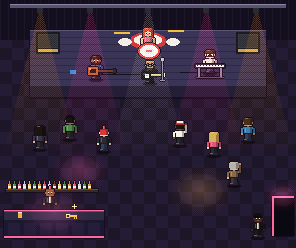
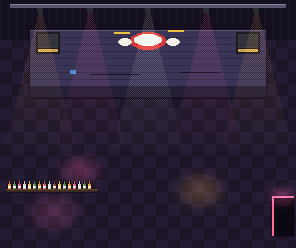
Fix the bedroom doorway, animate NPCs, and liven up the town
- Move the bedroom doorway off the couch so the bedroom is reachable
- Cups on the floor to pick up, and a guitar that sends you into a flow
  state when you're buzzed, then wakes you in bed
- NPCs breathe, the crowd dances and the band plays along with depth
  sorting against the bars, tables and instruments
- Taller town map with sidewalks, a grimy sidewalk by the bar, a neon
  BAR sign, a LIVE MUSIC marquee and posters, a parking lot by the
  club, and a broken-heart cloud over her house

Claude-Session: https://claude.ai/code/session_014gLzSEVs7rdWDnf6n7tjPU

diff --git a/index.html b/index.html
@@ -297,10 +297,11 @@ const cv = document.getElementById('cv'), ctx = cv.getContext('2d');
 ctx.imageSmoothingEnabled = false;
 const $ = id => document.getElementById(id);
 const IMG = {};
-['map', 'home', 'tavern', 'club', 'club_nokey', 'exhouse', 'exhouse_off', 'title'].forEach(n => { const i = new Image(); i.src = 'img/' + n + '.png'; IMG[n] = i; });
+const ATLAS = {"tavern":{"npcs":[{"name":"bartender","x":128,"y":82,"kind":"bar","f":[0]},{"name":"regular","x":34,"y":200,"kind":"sit","f":[1]},{"name":"patron2","x":60,"y":226,"kind":"sit","f":[2]},{"name":"cowboy","x":238,"y":200,"kind":"sit","f":[3]}],"fg":[{"name":"bar","sy":116,"f":4},{"name":"table1","sy":222,"f":5},{"name":"table2","sy":222,"f":6}]},"club":{"npcs":[{"name":"drummer","x":148,"y":52,"kind":"drums","f":[7,8]},{"name":"eli","x":150,"y":84,"kind":"singer","f":[9,10]},{"name":"bassist","x":96,"y":80,"kind":"band","f":[11]},{"name":"keys","x":210,"y":74,"kind":"band","f":[12]},{"name":"crowd0","x":40,"y":150,"kind":"crowd","f":[13,14]},{"name":"crowd1","x":70,"y":140,"kind":"crowd","f":[15,16]},{"name":"crowd2","x":104,"y":152,"kind":"crowd","f":[17,18]},{"name":"crowd3","x":180,"y":146,"kind":"crowd","f":[19,20]},{"name":"crowd4","x":214,"y":156,"kind":"crowd","f":[21,22]},{"name":"crowd5","x":248,"y":142,"kind":"crowd","f":[23,24]},{"name":"crowd6","x":234,"y":186,"kind":"crowd","f":[25,26]},{"name":"clubbartender","x":50,"y":212,"kind":"bar","f":[27]},{"name":"bouncer","x":258,"y":238,"kind":"idle","f":[28]}],"fg":[{"name":"kick","sy":59,"f":29},{"name":"keyboard","sy":78,"f":30},{"name":"mic","sy":90,"f":31},{"name":"cbar","sy":238,"f":32},{"name":"key","sy":239,"f":33}]},"map":{"npcs":[{"name":"queue1","x":198,"y":248,"kind":"idle","f":[34]},{"name":"queue2","x":188,"y":246,"kind":"idle","f":[35]}],"fg":[]},"rects":[[418,0,16,25,120,57],[435,0,16,25,26,175],[350,0,16,26,52,200],[282,0,16,27,230,173],[0,0,178,34,57,83],[260,35,32,24,21,199],[293,35,32,24,225,199],[452,0,16,25,140,27],[469,0,16,25,140,27],[326,35,25,24,141,60],[352,35,25,24,141,60],[0,35,30,25,87,55],[31,35,16,25,202,49],[48,35,16,25,32,125],[65,35,16,25,32,125],[82,35,16,25,62,115],[99,35,16,25,62,115],[299,0,16,27,96,125],[316,0,16,27,96,125],[367,0,16,26,172,120],[384,0,16,26,172,120],[116,35,16,25,206,131],[133,35,16,25,206,131],[150,35,16,25,240,117],[167,35,16,25,240,117],[184,35,16,25,226,161],[201,35,16,25,226,161],[333,0,16,27,42,185],[218,35,16,25,250,213],[378,35,24,18,137,42],[403,35,32,16,194,63],[235,35,7,25,159,57],[179,0,102,30,3,209],[436,35,15,12,65,208],[243,35,16,25,190,223],[401,0,16,26,180,220]]};
+['map', 'home', 'tavern', 'club', 'exhouse', 'exhouse_off', 'title', 'atlas'].forEach(n => { const i = new Image(); i.src = 'img/' + n + '.png'; IMG[n] = i; });
 
 const st = { mode: 'title', scene: 'home', x: 100, y: 182, dir: 'down', step: 0, stepT: 0, courage: 0, buzz: 0, key: false,
-  watched: false, porchOff: false, knocks: 0, played: 0, drinks: 0, t: 0, look: null, drive: null, curb: null, near: null, lock: false };
+  watched: false, porchOff: false, knocks: 0, played: 0, drinks: 0, cups: {}, cupN: 0, t: 0, look: null, drive: null, curb: null, near: null, lock: false };
 
 // ===== sprite =====
 function rgb(h) { return [1, 3, 5].map(i => parseInt(h.substr(i, 2), 16)); }
@@ -382,16 +383,18 @@ function carCanvas(col) {
 // ===== scenes =====
 const tree = (x, y) => [x + 4, y + 12, 14, 10];
 const SC = {
-  map: { img: 'map', name: 'TOWN', walk: [[0, 0, 296, 248]],
+  map: { img: 'map', name: 'TOWN', walk: [[0, 0, 296, 360]],
     block: [[12, 10, 94, 74], [160, 12, 76, 68], [16, 150, 84, 72], [170, 150, 102, 78], [106, 174, 20, 32],
-      tree(262, 10), tree(270, 60), tree(112, 8), tree(110, 190), tree(6, 96), tree(152, 186),
-      [124, 108, 6, 4], [226, 108, 6, 4], [124, 156, 6, 4], [159, 233, 14, 6], [149, 231, 14, 6]],
+      ...[[274, 14], [274, 70], [112, 8], [6, 96], [6, 290], [90, 300], [40, 330]].map(p => tree(p[0], p[1])),
+      ...[[120, 90], [240, 90], [120, 142], [120, 250], [284, 300]].map(p => [p[0] + 1, p[1] + 14, 4, 6]),
+      ...[[174, 256], [222, 258], [246, 320], [198, 322]].map(p => [p[0] + 1, p[1] + 3, 20, 32]),
+      [72, 98, 12, 8], [30, 238, 8, 6], [56, 266, 24, 7], [167, 304, 4, 6], [192, 243, 12, 6], [182, 241, 12, 6]],
     doors: [{ r: [50, 84, 18, 8], to: 'tavern' }, { r: [188, 80, 20, 8], to: 'exhouse' }, { r: [46, 222, 20, 8], to: 'home' }, { r: [206, 228, 30, 8], to: 'club' }],
     acts: [{ r: [98, 166, 36, 48], l: 'DRIVE', f: () => askDrive() }] },
   home: { img: 'home', name: 'HOME',
-    walk: [[4, 20, 146, 94], [154, 20, 138, 94], [4, 134, 176, 110], [184, 134, 108, 110], [60, 108, 18, 30], [146, 70, 12, 18], [176, 190, 12, 22], [58, 240, 26, 8]],
+    walk: [[4, 20, 146, 94], [154, 20, 138, 94], [4, 134, 176, 110], [184, 134, 108, 110], [88, 106, 16, 32], [146, 70, 12, 18], [176, 190, 12, 22], [58, 240, 26, 8]],
     block: [[12, 24, 48, 58], [64, 22, 14, 21], [160, 24, 28, 61], [210, 22, 20, 22], [256, 20, 16, 26], [14, 136, 72, 32], [26, 186, 48, 17],
-      [100, 128, 34, 26], [188, 128, 76, 36], [266, 120, 22, 36], [218, 186, 30, 23], [196, 216, 20, 16]],
+      [110, 128, 34, 26], [155, 206, 14, 6], [188, 128, 76, 36], [266, 120, 22, 36], [218, 186, 30, 23], [196, 216, 20, 16]],
     exit: { r: [58, 244, 26, 4], to: 'map' },
     acts: [
       { r: [12, 166, 76, 14], l: 'COUCH', f: () => couch() },
@@ -399,8 +402,9 @@ const SC = {
       { r: [262, 154, 30, 10], l: 'FRIDGE', f: () => say(['A lemon, some mustard, and a fridge magnet shaped like a guitar.']) },
       { r: [204, 42, 32, 10], l: 'MIRROR', f: () => mirror() },
       { r: [10, 80, 54, 12], l: 'BED', f: () => bed() },
-      { r: [132, 134, 36, 10], l: 'CLOSET', f: () => closet() },
-      { r: [98, 152, 40, 10], l: 'TV', f: () => say(['Static. Same as your head.']) }] },
+      { r: [144, 134, 32, 10], l: 'CLOSET', f: () => closet() },
+      { r: [148, 210, 30, 16], l: 'GUITAR', f: () => guitar() },
+      { r: [108, 152, 40, 10], l: 'TV', f: () => say(['Static. Same as your head.']) }] },
   tavern: { img: 'tavern', name: 'TAVERN', walk: [[0, 56, 296, 192]],
     block: [[58, 54, 176, 62], [74, 130, 12, 8], [104, 130, 12, 8], [164, 130, 12, 8], [194, 130, 12, 8], [250, 66, 30, 44], [20, 192, 34, 30], [224, 192, 34, 30], [52, 220, 16, 8]],
     exit: { r: [126, 244, 44, 4], to: 'map' },
@@ -426,6 +430,17 @@ const SC = {
 const SPAWN = { tavern: [148, 236], club: [262, 214], exhouse: [150, 236], home: [70, 236] };
 const MAPSPAWN = { tavern: [59, 98], exhouse: [198, 94], home: [56, 238], club: [221, 245] };
 
+const CUPS = { home: [[100, 214], [118, 198], [142, 232], [110, 98]] };
+const CUP_MSG = ['This is empty. Like your soul. Check the kitchen.', 'This cup is about as substantive as your purpose.'];
+function cupActs() {
+  return (CUPS[st.scene] || []).map((c, i) => (st.cups && st.cups[st.scene + i]) ? null :
+    { r: [c[0] - 11, c[1] - 8, 22, 20], l: 'CUP', f: () => { st.cups[st.scene + i] = true; sfx('click'); say([CUP_MSG[st.cupN++ % 2]]); } }).filter(Boolean);
+}
+function drawCup(x, y) {
+  ctx.fillStyle = OUT; ctx.fillRect(x - 4, y - 4, 9, 6);
+  ctx.fillStyle = '#d63a3a'; ctx.fillRect(x - 3, y - 3, 6, 4); ctx.fillStyle = '#f06a6a'; ctx.fillRect(x - 3, y - 3, 6, 1);
+  ctx.fillStyle = '#f4f0e6'; ctx.fillRect(x + 3, y - 3, 1, 4); ctx.fillStyle = '#7a1e1e'; ctx.fillRect(x - 3, y, 6, 1);
+}
 function inR(x, y, r) { return x >= r[0] && x < r[0] + r[2] && y >= r[1] && y < r[1] + r[3]; }
 function free(x, y) {
   const s = SC[st.scene], pts = [[x - 4, y - 3], [x + 4, y - 3], [x - 4, y], [x + 4, y]];
@@ -686,12 +701,99 @@ function drawCurb() {
   ctx.fillText("YOU DON'T REMEMBER GETTING HERE.", 50, 11);
 }
 
+// ===== NPC animation, signs, flow state =====
+function piece(i, dx, dy) { const r = ATLAS.rects[i]; ctx.drawImage(IMG.atlas, r[0], r[1], r[2], r[3], r[4] + dx, r[5] + dy, r[2], r[3]); }
+const BEAT = 60 / 112;
+function npcAnim(n, i) {
+  const t = st.t, ph = i * .37 + n.x * .013, f = n.f, alt = f[f.length - 1];
+  switch (n.kind) {
+    case 'singer': { const b = Math.floor(t / BEAT); return [b % 4 === 3 ? alt : f[0], Math.round(Math.sin(t * 1.7) * 2), (t / BEAT) % 1 < .5 ? -1 : 0]; }
+    case 'drums': { const b = Math.floor(t / (BEAT / 2)); return [b % 2 ? alt : f[0], 0, b % 2 ? -1 : 0]; }
+    case 'band': return [f[0], Math.round(Math.sin(t * 2.2 + ph) * 1.4), (t / BEAT + ph) % 1 < .5 ? -1 : 0];
+    case 'crowd': { const b = Math.floor(t / BEAT + ph * 3); return [b % 2 ? alt : f[0], 0, b % 2 ? -1 : 0]; }
+    case 'bar': return [f[0], Math.round(Math.sin(t * .8 + ph) * 2), Math.sin(t * 2 + ph) > .7 ? -1 : 0];
+    case 'sit': return [f[0], 0, Math.sin(t * 1.6 + ph) > .5 ? -1 : 0];
+    default: return [f[0], 0, Math.sin(t * 1.9 + ph) > .4 ? -1 : 0];
+  }
+}
+const GLYPH = { B: ['XX.', 'X.X', 'XX.', 'X.X', 'XX.'], A: ['.X.', 'X.X', 'XXX', 'X.X', 'X.X'], R: ['XX.', 'X.X', 'XX.', 'X.X', 'X.X'], L: ['X..', 'X..', 'X..', 'X..', 'XXX'],
+  I: ['XXX', '.X.', '.X.', '.X.', 'XXX'], V: ['X.X', 'X.X', 'X.X', 'X.X', '.X.'], E: ['XXX', 'X..', 'XX.', 'X..', 'XXX'], M: ['X.X', 'XXX', 'XXX', 'X.X', 'X.X'],
+  U: ['X.X', 'X.X', 'X.X', 'X.X', 'XXX'], S: ['.XX', 'X..', '.X.', '..X', 'XX.'], C: ['.XX', 'X..', 'X..', 'X..', '.XX'], ' ': ['..', '..', '..', '..', '..'] };
+const textW = (s, k) => [...s].reduce((w, ch) => w + (GLYPH[ch][0].length + 1) * k, -k);
+function pxText(s, x, y, k, col, skip) {
+  let cx = x; [...s].forEach((ch, n) => { const g = GLYPH[ch];
+    if (!(skip && skip(n))) { ctx.fillStyle = col; g.forEach((row, j) => [...row].forEach((c, i) => { if (c === 'X') ctx.fillRect(cx + i * k, y + j * k, k, k); })); }
+    cx += (g[0].length + 1) * k; });
+}
+const HEART = ['..XXX.....XXX..', '.XXXXX...XXXXX.', 'XXXXXXX.XXXXXXX', 'XXXXXXXXXXXXXXX', 'XXXXXXXXXXXXXXX', 'XXXXXXXXXXXXXXX', '.XXXXXXXXXXXXX.',
+  '..XXXXXXXXXXX..', '...XXXXXXXXX...', '....XXXXXXX....', '.....XXXXX.....', '......XXX......', '.......X.......'];
+const CRACK = [7, 7, 8, 6, 8, 6, 8, 7, 6, 8, 7, 7, 7];
+function heart(x, y, k, col, side) {
+  ctx.fillStyle = col;
+  HEART.forEach((row, j) => [...row].forEach((c, i) => { if (c !== 'X' || i === CRACK[j]) return; const left = i < CRACK[j];
+    if (side === 'both' || (side === 'L') === left) ctx.fillRect(x + i * k + (left ? -k : k), y + j * k + (left ? 0 : k), k, k); }));
+}
+function drawMapFx() {
+  const t = st.t;
+  // neon BAR sign on the tavern, with a bad connection
+  const bx = 37, by = 45, glitch = (Math.sin(t * 13) > .93) || (Math.floor(t * 2) % 17 === 0);
+  ctx.fillStyle = OUT; ctx.fillRect(bx - 1, by - 1, 30, 16); ctx.fillStyle = '#1a0a14'; ctx.fillRect(bx, by, 28, 14);
+  if (!glitch) { ctx.save(); ctx.globalCompositeOperation = 'lighter'; ctx.fillStyle = 'rgba(255,80,140,.18)'; ctx.fillRect(bx - 6, by - 5, 40, 24); ctx.restore(); }
+  pxText('BAR', bx + 3, by + 2, 2, glitch ? '#5a2a3a' : '#ff6a9a', n => n === 1 && Math.sin(t * 5) + Math.sin(t * 13) > 1.75);
+  // LIVE MUSIC marquee over the club door with chasing bulbs
+  const mx = 188, my = 186, mw = 66, mh = 15, step = Math.floor(t * 8);
+  ctx.fillStyle = OUT; ctx.fillRect(mx - 1, my - 1, mw + 2, mh + 2); ctx.fillStyle = '#20142c'; ctx.fillRect(mx, my, mw, mh);
+  let bi = 0;
+  const bulb = (x, y) => { ctx.fillStyle = (bi++ + step) % 3 === 0 ? '#fff4c0' : '#7a5a2a'; ctx.fillRect(x, y, 1, 1); };
+  for (let x = mx + 1; x < mx + mw - 1; x += 3) bulb(x, my + 1);
+  for (let y = my + 1; y < my + mh - 1; y += 3) bulb(mx + mw - 2, y);
+  for (let x = mx + mw - 2; x > mx; x -= 3) bulb(x, my + mh - 2);
+  for (let y = my + mh - 2; y > my; y -= 3) bulb(mx + 1, y);
+  pxText('LIVE MUSIC', Math.round(mx + (mw - textW('LIVE MUSIC', 1)) / 2), my + 5, 1, step % 8 < 6 ? '#ffc24a' : '#ff6a9a');
+  // a cloud shaped like a broken heart over her house, raining a little
+  const cy = Math.round(12 + Math.sin(t * .8) * 1.5), cx = 183;
+  ctx.globalAlpha = .28; heart(cx + 6, 44, 2, '#000', 'both'); ctx.globalAlpha = 1;
+  [[-1, 0], [1, 0], [0, -1], [0, 1]].forEach(o => heart(cx + o[0], cy + o[1], 2, '#3a2e50', 'both'));
+  heart(cx, cy, 2, '#d8d0e8', 'both');
+  ctx.fillStyle = '#a89ac0'; HEART.slice(8).forEach((row, j) => [...row].forEach((c, i) => { const jj = j + 8; if (c === 'X' && i !== CRACK[jj]) { const left = i < CRACK[jj]; ctx.fillRect(cx + i * 2 + (left ? -2 : 2), cy + jj * 2 + (left ? 0 : 2) + 1, 2, 1); } }));
+  ctx.fillStyle = '#7ab0e8';
+  for (let k = 0; k < 6; k++) { const ry = (t * 30 + k * 11) % 26; ctx.fillRect(cx + 4 + k * 4, cy + 26 + ry, 1, 2); }
+}
+let flowT = 0;
+function guitar() {
+  if (st.buzz < 2) return say(['You pick up the guitar. Your fingers find the shapes, but nothing comes out.', "Sober, it's just wood and wire. You put it back on the stand."]);
+  say(['You pick up the guitar. Something in you loosens.', 'The room starts to bend...'], () => { st.mode = 'flow'; st.flow = { t: 0, done: false }; sfx('flow'); });
+}
+function updateFlow(dt) {
+  const f = st.flow; f.t += dt;
+  if (f.t > 6.5 && !f.done) { f.done = true;
+    fade('You drift off mid-song.', 1500, () => { st.mode = 'play'; st.buzz = Math.max(0, st.buzz - 2); go('home', 92, 96);
+      setTimeout(() => say(['You wake up in your bed. The guitar is back on its stand.', "You wrote something incredible last night. You can't remember a single note.",
+        ASK('Maybe the song you were chasing already exists.')]), 1500); }); }
+}
+function drawFlow() {
+  const t = st.flow.t, cx = W / 2 + Math.sin(t * 1.3) * 14, cy = VH / 2 + Math.cos(t * 1.1) * 8, cols = ['#ff6a9a', '#ffc24a', '#4fc3c8', '#8a6ad0', '#f2ead8'];
+  ctx.setTransform(1, 0, 0, 1, 0, 0); ctx.fillStyle = '#07040f'; ctx.fillRect(0, 0, W, VH);
+  for (let i = 0; i < 16; i++) { const r = (t * 52 + i * 15) % 240; if (r < 2) continue;
+    ctx.strokeStyle = cols[(i + Math.floor(t * 3)) % cols.length]; ctx.lineWidth = Math.max(1, Math.round(r / 36)); ctx.globalAlpha = Math.min(1, r / 50);
+    ctx.beginPath(); ctx.ellipse(cx, cy, r * 1.2, r * .78, t * .35 + i * .18, 0, 7); ctx.stroke(); }
+  ctx.globalAlpha = 1;
+  for (let i = 0; i < 48; i++) { const a = i * 2.4 + t * .7, d = (t * 95 + i * 37) % 210, big = d > 120 ? 2 : 1;
+    ctx.fillStyle = cols[i % 5]; ctx.fillRect(Math.round(cx + Math.cos(a) * d), Math.round(cy + Math.sin(a) * d * .7), big, big); }
+  const sc = Math.max(.25, 1.6 - t / 4.5);
+  ctx.save(); ctx.translate(Math.round(cx), Math.round(cy)); ctx.rotate(t * 1.4); ctx.scale(sc, sc);
+  ctx.drawImage(sprite('down', 0), -9, -14);
+  ctx.fillStyle = '#c8843a'; ctx.fillRect(-2, 0, 8, 6); ctx.fillStyle = '#6b4226'; ctx.fillRect(4, 1, 9, 2); ctx.restore();
+  ctx.fillStyle = 'rgba(10,8,18,.85)'; ctx.fillRect(0, 0, W, 16); ctx.fillStyle = cols[Math.floor(t * 4) % 5]; ctx.font = '6px "Press Start 2P"';
+  ctx.fillText('FLOW STATE', W / 2 - 30, 11);
+}
+
 // ===== main loop =====
 const keys = {};
 function update(dt) {
   if (['listen', 'help', 'spell', 'final'].some(id => $(id).style.display === 'flex')) return;
   st.t += dt;
-  if (['play', 'drive', 'curb', 'police'].includes(st.mode)) {
+  if (['play', 'drive', 'curb', 'police', 'flow'].includes(st.mode)) {
     const before = Math.floor(st.played); st.played += dt;
     if (Math.floor(st.played) !== before) hud();
     if (st.played >= GAME_SECONDS) return endGame('time');
@@ -699,6 +801,7 @@ function update(dt) {
   if (st.mode === 'drive') return updateDrive(dt);
   if (st.mode === 'curb') return updateCurb(dt);
   if (st.mode === 'police') return updatePolice(dt);
+  if (st.mode === 'flow') return updateFlow(dt);
   if (st.mode === 'play' && !st.lock) { st.nudgeT = (st.nudgeT || 0) + dt; if (st.nudgeT > 150) { st.nudgeT = 0; nudge(); } }
   if (st.mode !== 'play' || st.lock) { st.near = null; $('hint').style.display = 'none'; return; }
   let dx = (keys.right ? 1 : 0) - (keys.left ? 1 : 0), dy = (keys.down ? 1 : 0) - (keys.up ? 1 : 0);
@@ -713,7 +816,7 @@ function update(dt) {
   const s = SC[st.scene];
   if (s.doors) for (const d of s.doors) if (inR(st.x, st.y, d.r)) return enter(d.to);
   if (s.exit && inR(st.x, st.y, s.exit.r)) return leave();
-  st.near = (s.acts || []).find(a => inR(st.x, st.y, a.r)) || null;
+  st.near = (s.acts || []).concat(cupActs()).find(a => inR(st.x, st.y, a.r)) || null;
   const h = $('hint');
   if (st.near) { h.textContent = (document.body.classList.contains('phone') ? 'A' : 'SPACE') + ': ' + st.near.l; h.style.display = 'block'; } else h.style.display = 'none';
 }
@@ -722,14 +825,25 @@ function draw() {
   if (st.mode === 'drive') { CY = camTo(202 - VH * .72, 'drive'); ctx.setTransform(1, 0, 0, 1, 0, -CY); return drawDrive(); }
   if (st.mode === 'curb') { CY = camTo(188 - VH * .6, 'curb'); ctx.setTransform(1, 0, 0, 1, 0, -CY); return drawCurb(); }
   if (st.mode === 'police') { CY = camTo(196 - VH * .6, 'police'); ctx.setTransform(1, 0, 0, 1, 0, -CY); return drawPolice(); }
+  if (st.mode === 'flow') return drawFlow();
   if (st.mode !== 'play') return;
-  CY = camTo(st.y - 16 - VH / 2, 'play' + st.scene);
+  CY = camTo(st.y - 16 - VH / 2, 'play' + st.scene, (IMG[SC[st.scene].img] || {}).naturalHeight || H);
   const sway = st.buzz >= 3 ? Math.sin(st.t * 1.3) * (st.buzz - 2) * 1.5 : 0;
   const scene = () => {
-    ctx.drawImage(st.scene === 'exhouse' && st.porchOff ? IMG.exhouse_off : st.scene === 'club' && st.key ? IMG.club_nokey : IMG[SC[st.scene].img], 0, 0);
-    const fr = [0, 1, 0, 2][st.step], p = sprite(st.dir, fr);
-    ctx.fillStyle = 'rgba(0,0,0,.4)'; ctx.beginPath(); ctx.ellipse(st.x, st.y - 1, 7, 2, 0, 0, 7); ctx.fill();
-    ctx.drawImage(p, Math.round(st.x - 9), Math.round(st.y - 27));
+    ctx.drawImage(st.scene === 'exhouse' && st.porchOff ? IMG.exhouse_off : IMG[SC[st.scene].img], 0, 0);
+    if (st.scene === 'map') drawMapFx();
+    const A = ATLAS[st.scene], ents = [];
+    if (A) {
+      A.npcs.forEach((n, i) => ents.push({ y: n.y, d: () => { const a = npcAnim(n, i);
+        ctx.fillStyle = 'rgba(0,0,0,.35)'; ctx.beginPath(); ctx.ellipse(n.x, n.y - 1, 7, 2, 0, 0, 7); ctx.fill(); piece(a[0], a[1], a[2]); } }));
+      A.fg.forEach(g => { if (g.name === 'key' && st.key) return; ents.push({ y: g.sy, d: () => piece(g.f, 0, 0) }); });
+    }
+    (CUPS[st.scene] || []).forEach((c, i) => { if (!(st.cups && st.cups[st.scene + i])) ents.push({ y: c[1] - 4, d: () => drawCup(c[0], c[1]) }); });
+    ents.push({ y: st.y, d: () => {
+      const fr = [0, 1, 0, 2][st.step], p = sprite(st.dir, fr);
+      ctx.fillStyle = 'rgba(0,0,0,.4)'; ctx.beginPath(); ctx.ellipse(st.x, st.y - 1, 7, 2, 0, 0, 7); ctx.fill();
+      ctx.drawImage(p, Math.round(st.x - 9), Math.round(st.y - 27)); } });
+    ents.sort((a, b) => a.y - b.y).forEach(e => e.d());
     if (st.near) { const bx = Math.round(st.x - 3), by = Math.round(st.y - 40); ctx.fillStyle = OUT; ctx.fillRect(bx - 1, by - 1, 8, 11);
       ctx.fillStyle = '#ffc24a'; ctx.fillRect(bx, by, 6, 9); ctx.fillStyle = OUT; ctx.fillRect(bx + 2, by + 1, 2, 4); ctx.fillRect(bx + 2, by + 6, 2, 2); }
   };
@@ -972,7 +1086,7 @@ $('rndBtn').onclick = () => { const r = n => Math.floor(Math.random() * n); Obje
 $('newBtn').onclick = () => { startMusic(); closeOv('title'); renderCreator(); openOv('creator'); };
 $('startBtn').onclick = () => {
   st.look = lookFrom(); closeOv('creator');
-  Object.assign(st, { mode: 'intro', courage: 1, buzz: 3, key: false, watched: false, porchOff: false, knocks: 0, played: 0, drinks: 0 }); hud();
+  Object.assign(st, { mode: 'intro', courage: 1, buzz: 3, key: false, watched: false, porchOff: false, knocks: 0, played: 0, drinks: 0, cups: {}, cupN: 0 }); hud();
   go('map', MAPSPAWN.home[0], MAPSPAWN.home[1]);
   const f = $('fade'); f.style.transition = 'none'; f.style.opacity = 1; f.innerHTML = '<span>"Drunk and on my way home,\ncall you just to say I\'m coming over baby."</span><span class="fattr">' + ATTR + '</span>'; st.lock = true;
   setTimeout(() => { f.style.transition = ''; startDrive('home', false, true); f.style.opacity = 0; }, 3600);
@@ -1014,6 +1128,7 @@ function sfx(k) {
   if (k === 'knock') { tone(140, t, .08, 'square', .15); tone(140, t + .18, .08, 'square', .15); tone(140, t + .36, .08, 'square', .15); }
   if (k === 'siren') { for (let i = 0; i < 6; i++) { const o = AC.createOscillator(), g = AC.createGain(); o.type = 'square'; o.frequency.setValueAtTime(650, t + i * .7); o.frequency.linearRampToValueAtTime(950, t + i * .7 + .35); o.frequency.linearRampToValueAtTime(650, t + i * .7 + .7);
     g.gain.setValueAtTime(.05, t + i * .7); g.gain.linearRampToValueAtTime(0.0001, t + i * .7 + .7); o.connect(g); g.connect(master); o.start(t + i * .7); o.stop(t + i * .7 + .72); } }
+  if (k === 'flow') { [262, 330, 392, 494, 587, 659, 784, 988].forEach((f, i) => tone(f, t + i * .14, .9, 'triangle', .05)); }
   if (k === 'win') { [262, 330, 392, 523, 659, 784].forEach((f, i) => tone(f, t + i * .12, .4, 'square', .07)); }
 }
 $('soundBtn').onclick = e => { e.currentTarget.blur(); musicOn = !musicOn; fit();
@@ -1021,8 +1136,8 @@ $('soundBtn').onclick = e => { e.currentTarget.blur(); musicOn = !musicOn; fit()
 
 // ===== layout =====
 let CY = 0; let VH = H; const cam = { y: 0, key: '' };
-function camTo(target, key) {
-  const tgt = Math.max(0, Math.min(H - VH, Math.round(target)));
+function camTo(target, key, sh) {
+  const tgt = Math.max(0, Math.min((sh || H) - VH, Math.round(target)));
   if (cam.key !== key) { cam.key = key; cam.y = tgt; } else cam.y += (tgt - cam.y) * .18;
   return Math.round(cam.y);
 }
